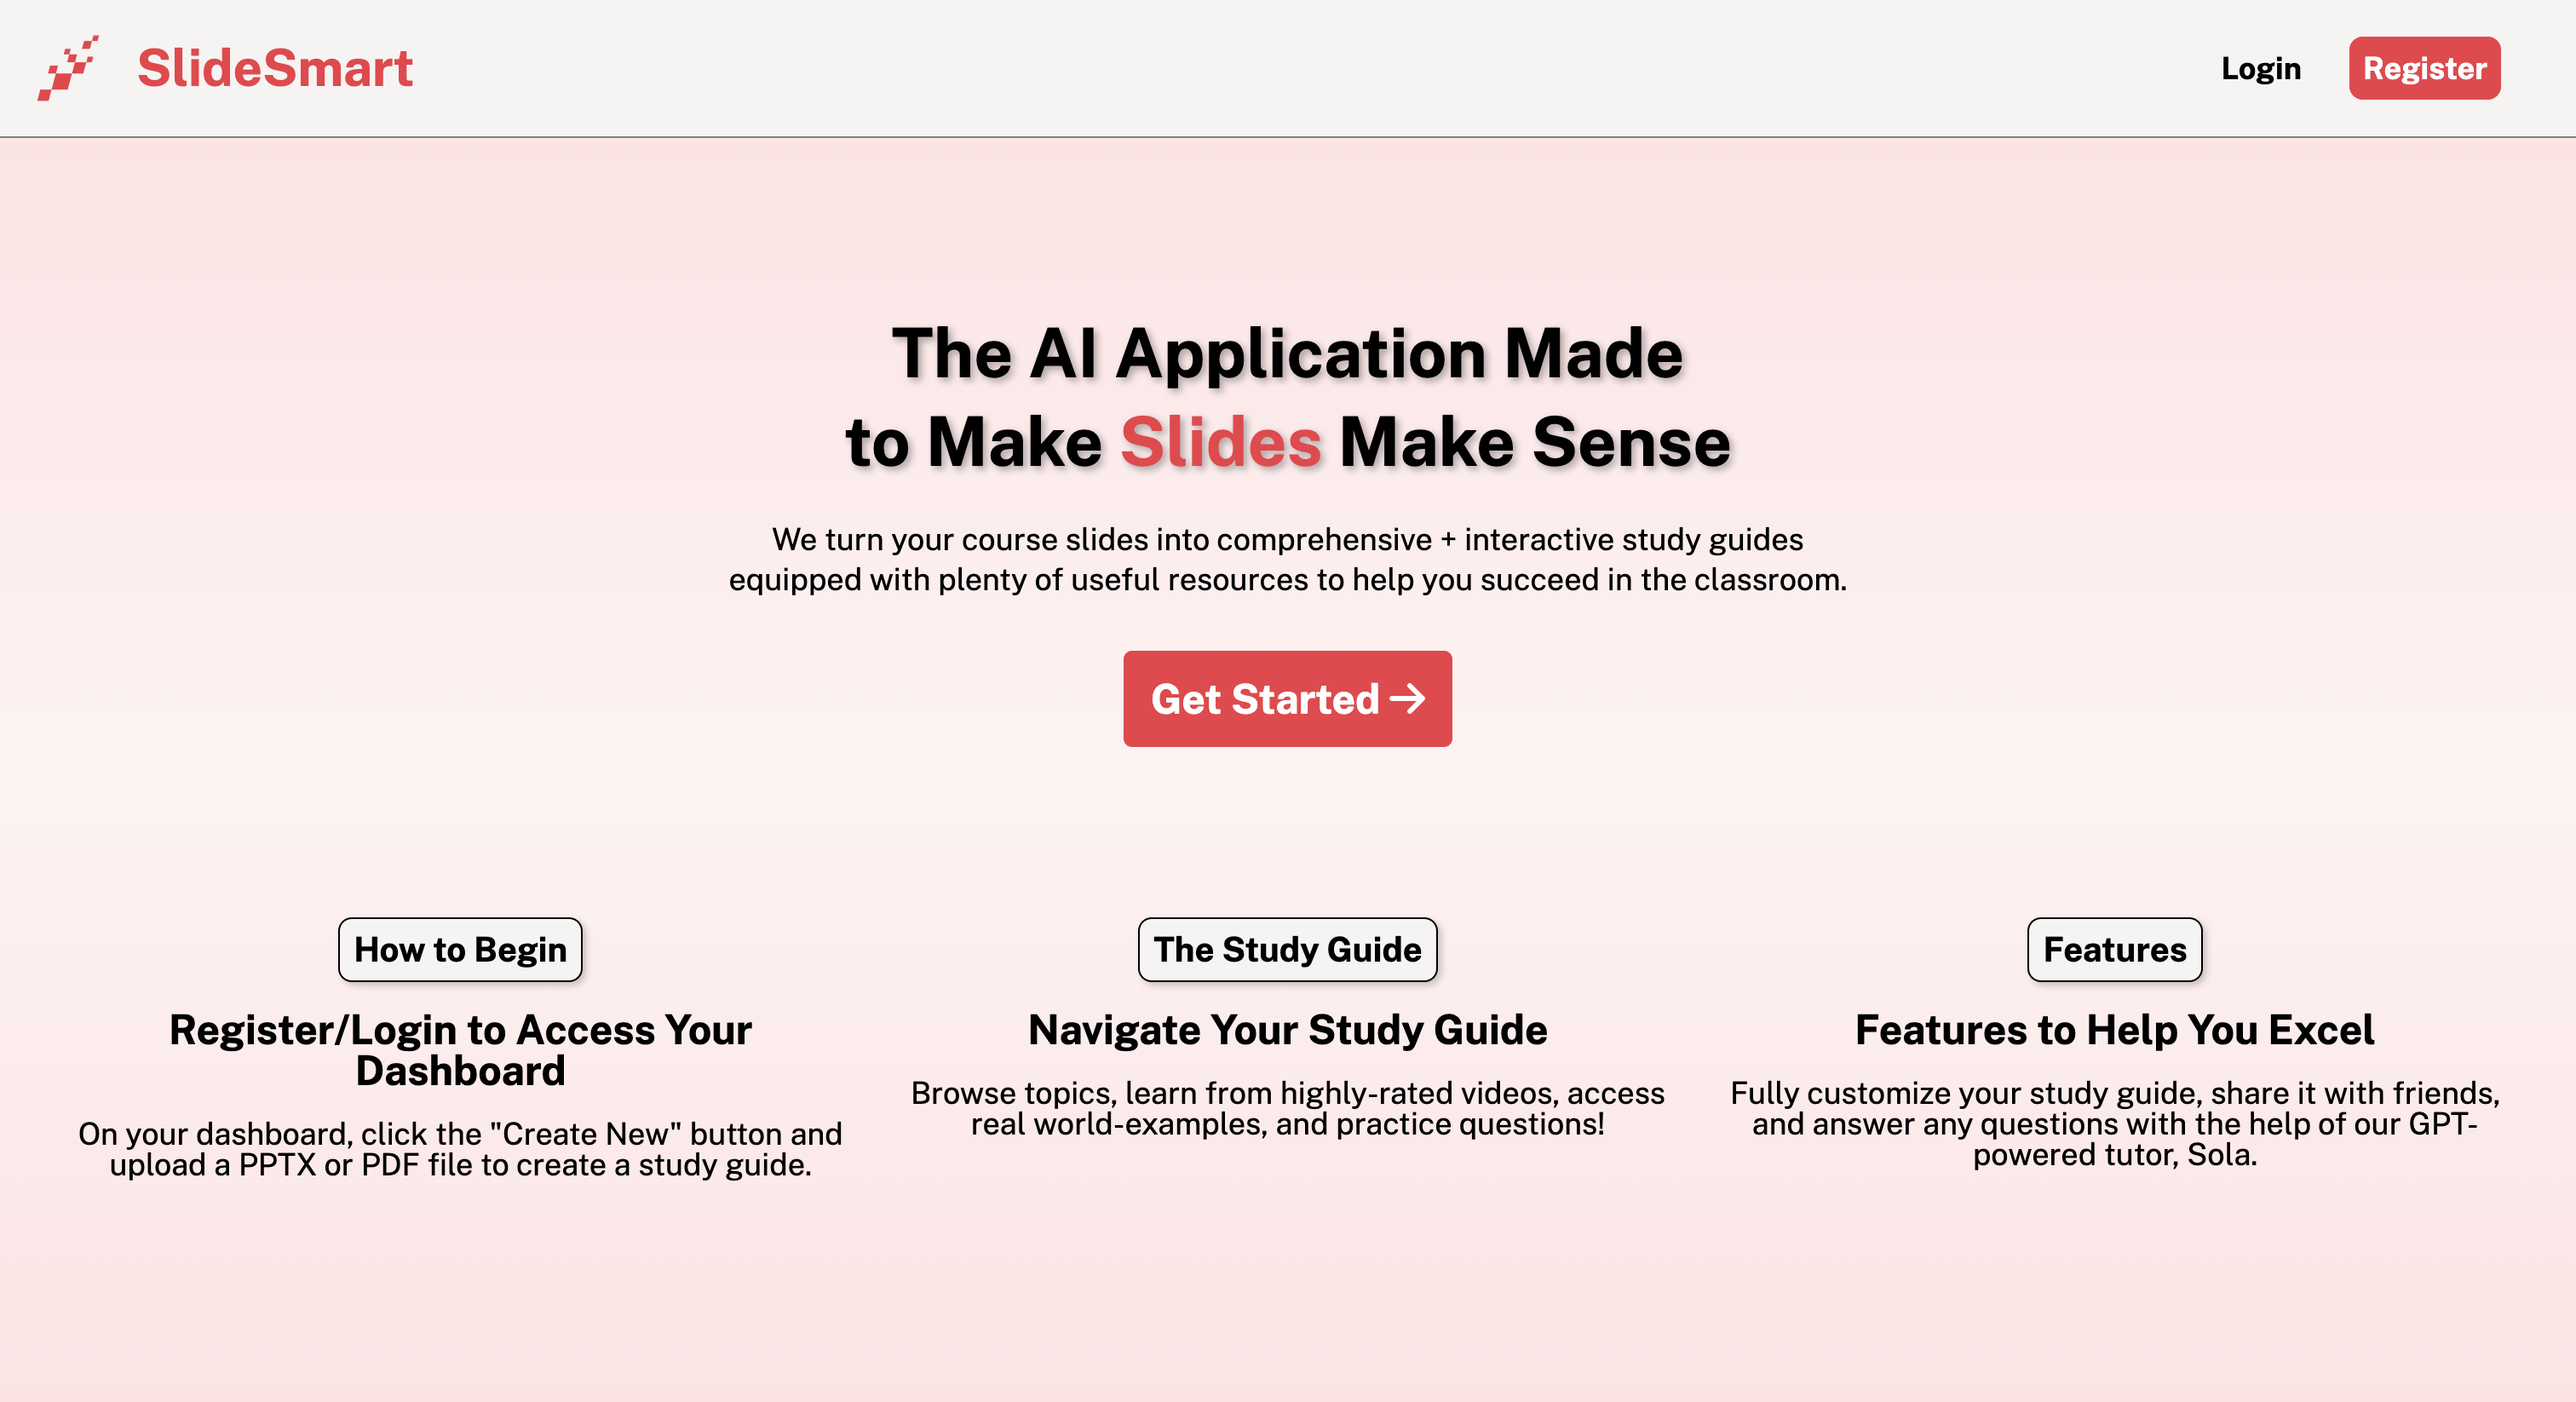
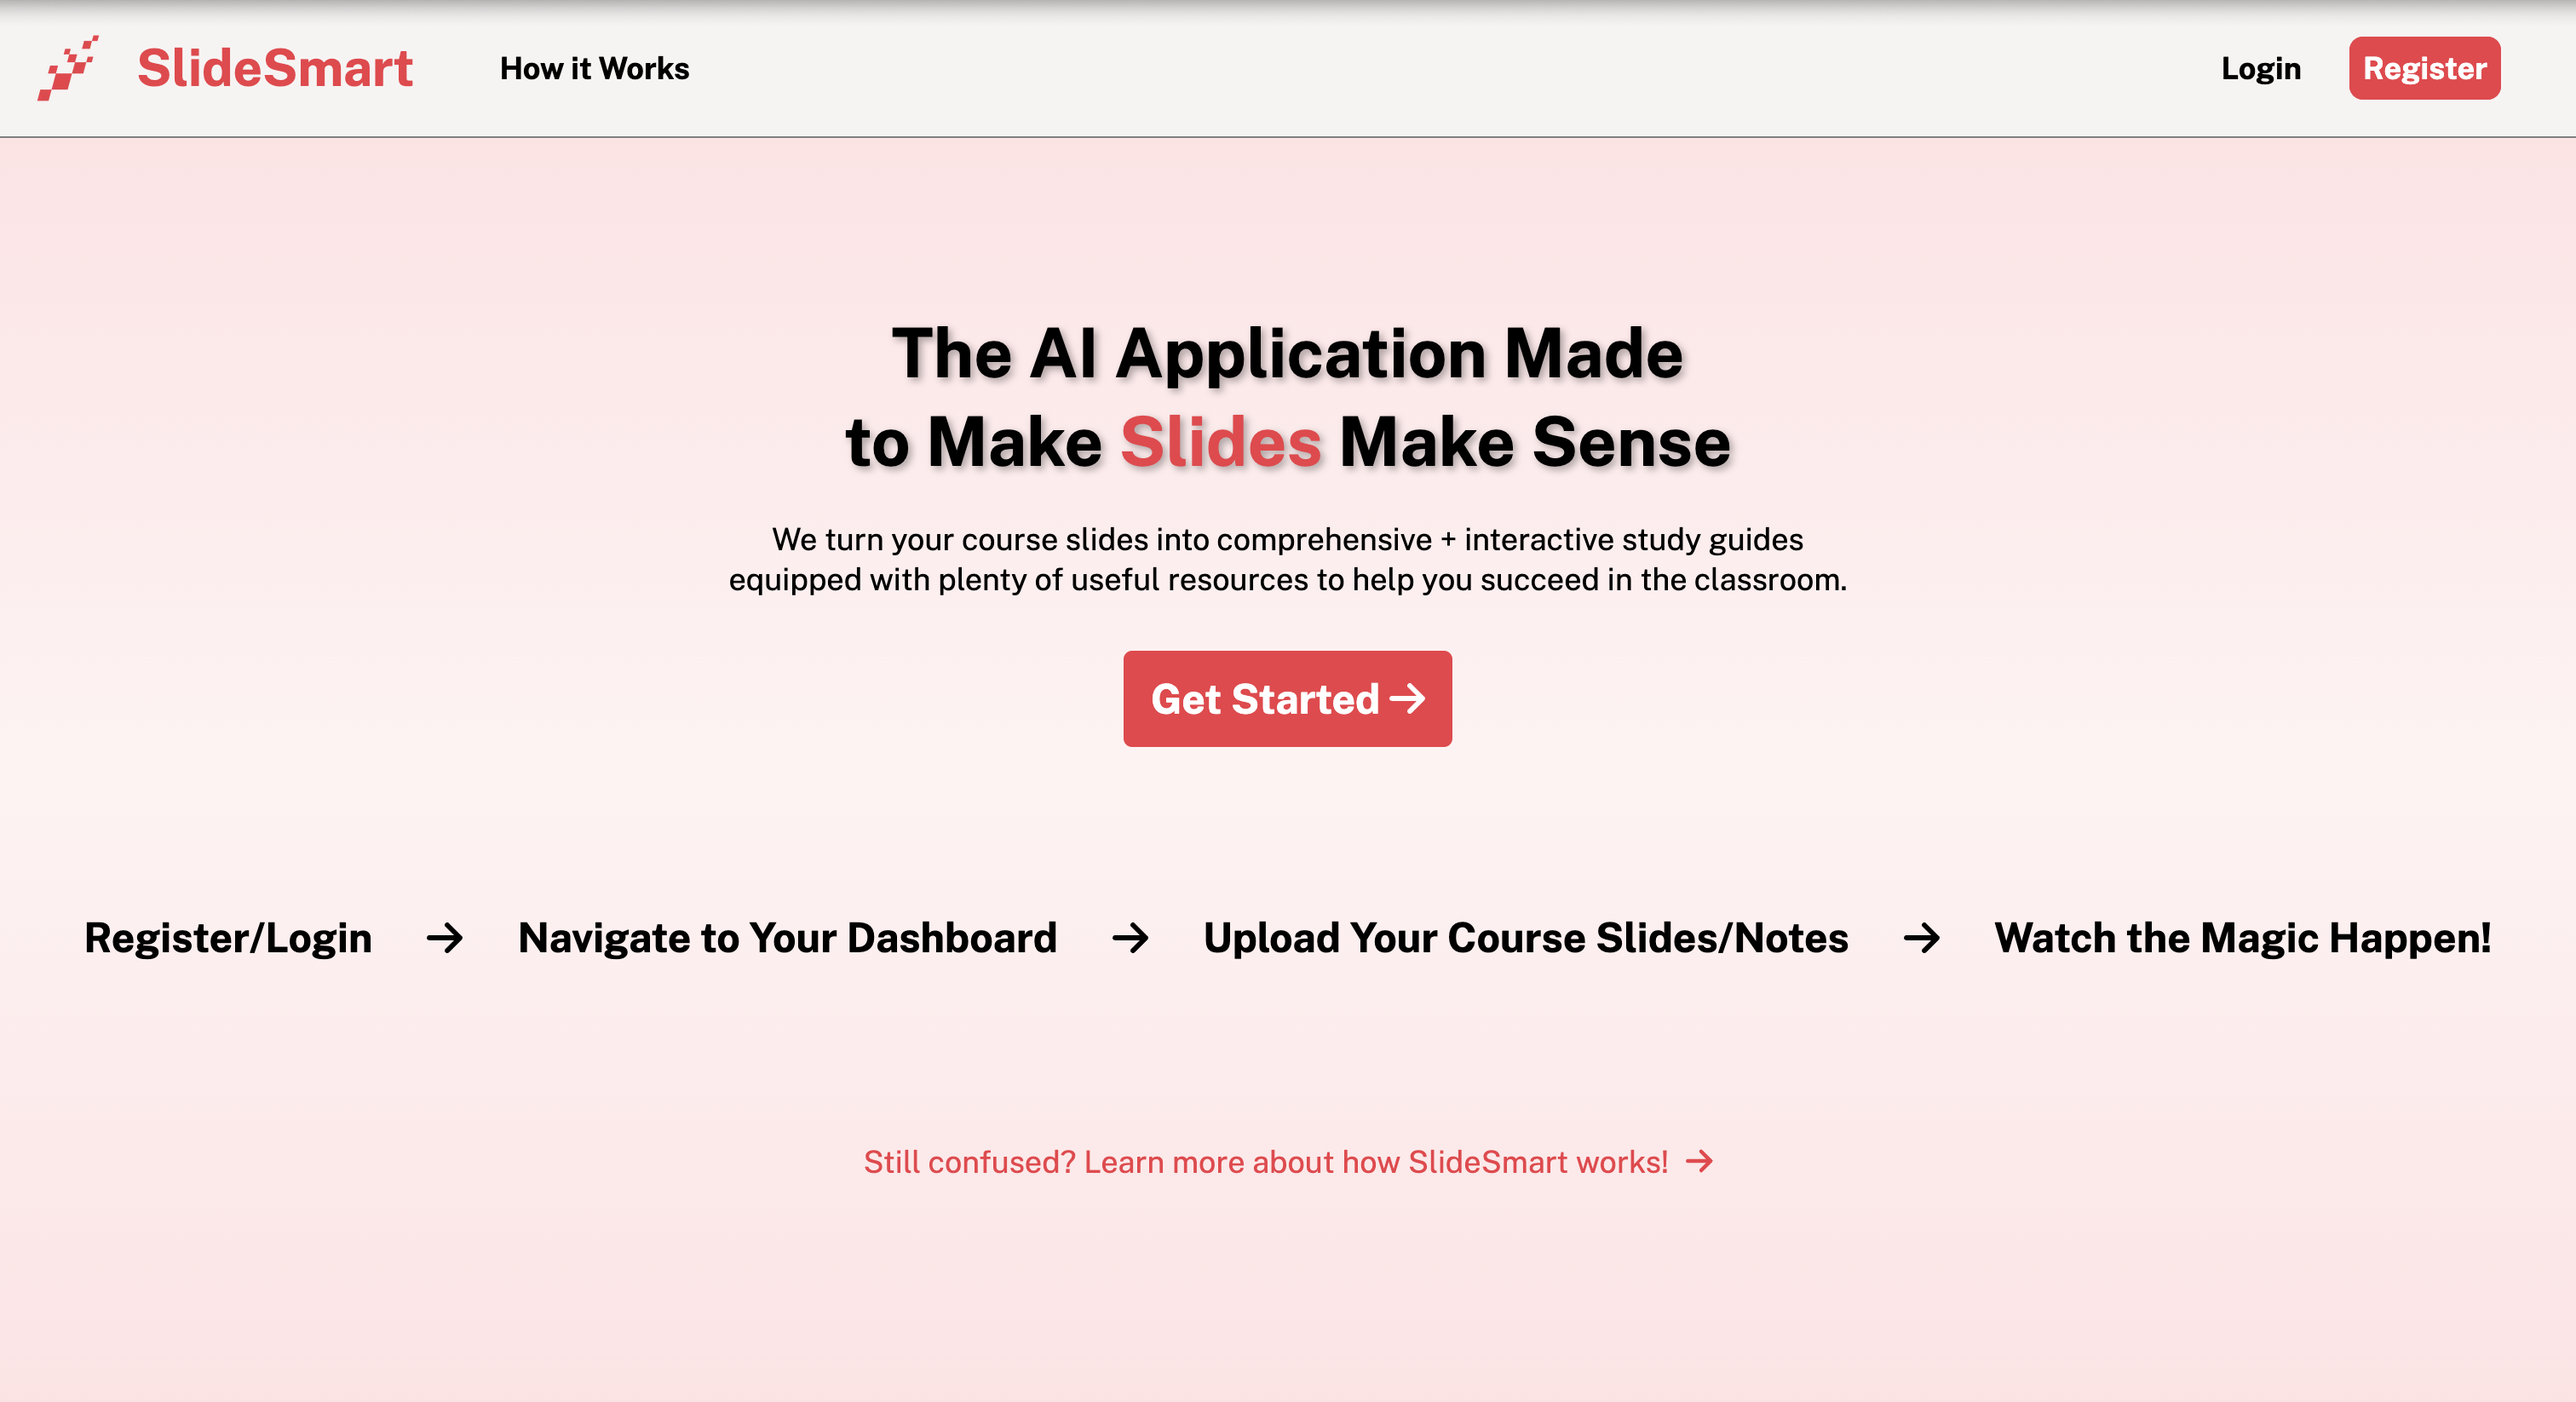
some tweaks to how it works

diff --git a/pages/index.js b/pages/index.js
@@ -60,37 +60,20 @@ export default function Home() {
             </Button>
           </SloganContainer>
           <InstructionContainer>
-            <InstructionArea>
-              <InstructionLabel>How to Begin</InstructionLabel>
-              <InstructionTitle>
-                Register/Login to Access Your Dashboard
-              </InstructionTitle>
-              <InstructionSubtitle>
-                On your dashboard, click the "Create New" button and upload a
-                PPTX or PDF file to create a study guide.
-              </InstructionSubtitle>
-            </InstructionArea>
-            <InstructionArea>
-              <InstructionLabel>The Study Guide</InstructionLabel>
-              <InstructionTitle>Navigate Your Study Guide</InstructionTitle>
-              <InstructionSubtitle>
-                Browse topics, learn from highly-rated videos, access real
-                world-examples, and practice questions!
-              </InstructionSubtitle>
-            </InstructionArea>
-            <InstructionArea>
-              <InstructionLabel>Features</InstructionLabel>
-              <InstructionTitle>Features to Help You Excel</InstructionTitle>
-              <InstructionSubtitle>
-                Fully customize your study guide, share it with friends, and
-                answer any questions with the help of our GPT-powered tutor,
-                Sola.
-              </InstructionSubtitle>
-            </InstructionArea>
+            {!isLoggedIn && (
+              <>
+                Register/Login <FontAwesomeIcon icon={faArrowRight} />
+              </>
+            )}
+            Navigate to Your Dashboard <FontAwesomeIcon icon={faArrowRight} />
+            Upload Your Course Slides/Notes{" "}
+            <FontAwesomeIcon icon={faArrowRight} />
+            Watch the Magic Happen!
           </InstructionContainer>
           <MoreContainer>
             <Button
               textColor="#f03a47"
+              hoverTextColor="#ffffff"
               backgroundColor="transparent"
               hoverBackgroundColor="#f03a47"
               onClick={() => router.push("/how-it-works")}
@@ -124,7 +107,8 @@ const Section = styled.div`
   justify-content: flex-start;
   align-items: center;
   text-align: center;
-  gap: 80px;
+  gap: 100px;
+  overflow-x: scroll;
 `;
 
 const SloganContainer = styled.div`
@@ -153,38 +137,11 @@ const SubSlogan = styled.p`
 const InstructionContainer = styled.div`
   display: flex;
   flex-direction: row;
-  align-items: flex-start;
+  align-items: center;
   justify-content: center;
   gap: 32px;
-`;
-
-const InstructionArea = styled.div`
-  display: flex;
-  flex-direction: column;
-  align-items: center;
-  gap: 16px;
-  width: 30%;
-`;
-
-const InstructionLabel = styled.div`
-  font-size: ${fontSize.label};
-  font-weight: bold;
-  color: #000000;
-  background-color: #f6f4f3;
-  padding: 8px;
-  border-radius: 8px;
-  border: 1px solid #000000;
-  box-shadow: 2px 2px 4px rgba(0, 0, 0, 0.2);
-`;
-
-const InstructionTitle = styled.p`
   font-size: ${fontSize.subheading};
   font-weight: bold;
-  color: #000000;
-`;
-
-const InstructionSubtitle = styled.p`
-  font-size: ${fontSize.default};
   color: #000000;
 `;
 

diff --git a/components/PictureFrame.js b/components/PictureFrame.js
@@ -13,23 +13,23 @@ export default PictureFrame;
 
 const Frame = styled.div`
   border-radius: 8px;
-  box-shadow: 0px 4px 4px rgba(0, 0, 0, 0.2);
+  box-shadow: 0px 4px 4px rgba(0, 0, 0, 0.5);
   padding: 16px;
   background-color: #ffffff;
 
   ${({ align }) =>
     align === "left"
       ? css`
-          border-left: 8px solid #f03a4770;
-          border-top: 8px solid #f03a4770;
+          border-left: 24px solid #f03a4770;
+          border-top: 24px solid #f03a4770;
         `
       : align === "right"
       ? css`
-          border-right: 8px solid #f03a4770;
-          border-top: 8px solid #f03a4770;
+          border-right: 24px solid #f03a4770;
+          border-top: 24px solid #f03a4770;
         `
       : css`
-          border-top: 8px solid #f03a4770;
+          border-top: 24px solid #f03a4770;
         `}
 `;
 

diff --git a/components/InfoCircle.js b/components/InfoCircle.js
@@ -76,7 +76,7 @@ const renderText = (title, subtitle, align) => {
           textAnchor={align}
           dominantBaseline="middle"
           fontSize={fontSizeTitle}
-          fontWeight="bold"
+          fontWeight={"bold"}
           fill="#000"
         >
           {line}
@@ -100,8 +100,8 @@ const renderText = (title, subtitle, align) => {
 };
 
 const CircleContainer = styled.div`
-  width: min(80vh, 40vw);
-  height: min(80vh, 40vw);
+  width: min(85vh, 45vw);
+  height: min(85vh, 45vw);
   display: flex;
   justify-content: center;
   align-items: center;
